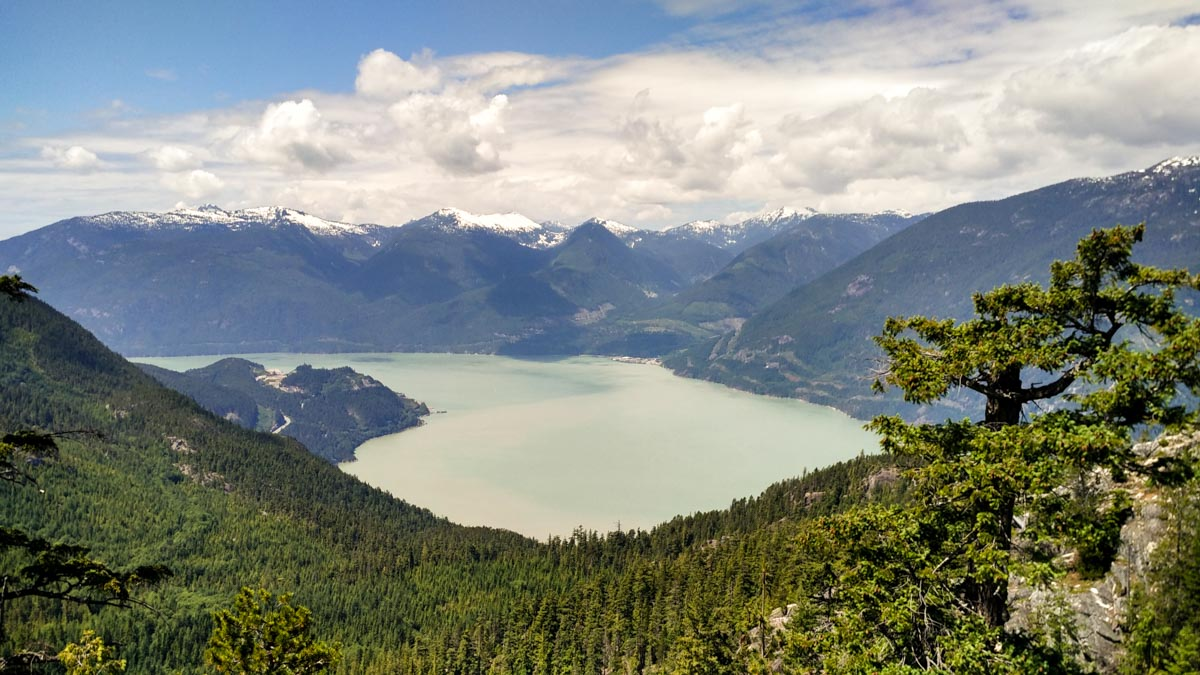
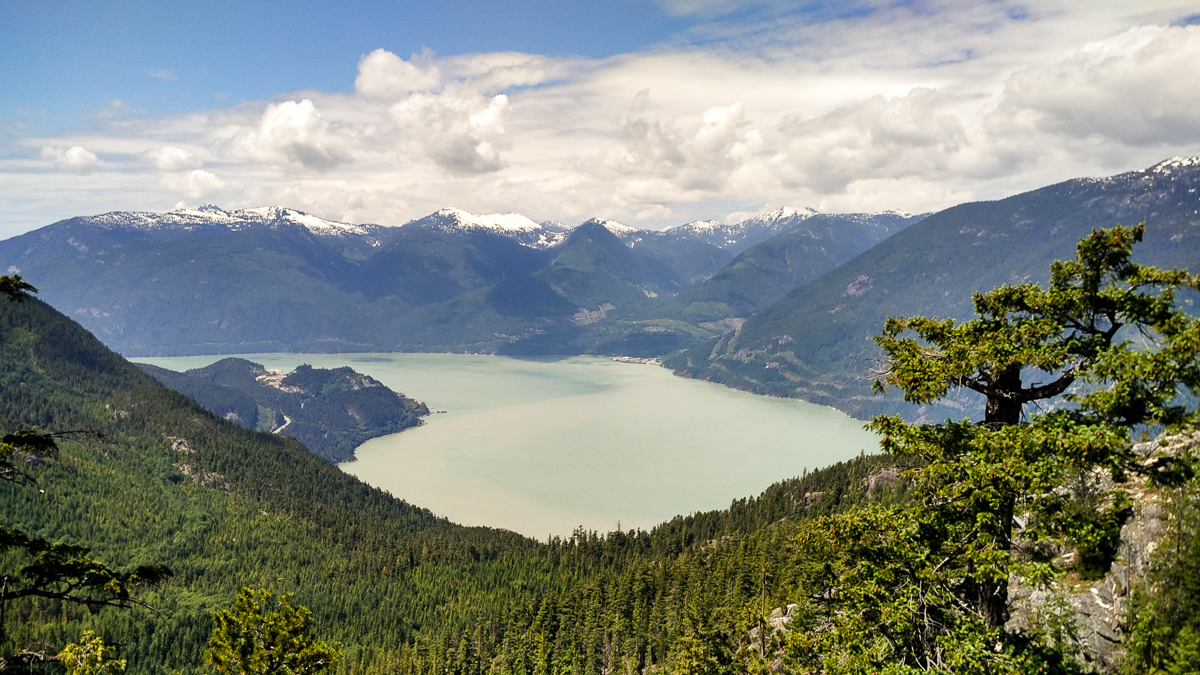
update pic quality

diff --git a/content/post/2017-05-11-r-rmarkdown.html b/content/post/2017-05-11-r-rmarkdown.html
@@ -64,8 +64,8 @@ y&lt;-x + rnorm(n=10, mean=0, sd=3)
 scatter&lt;-ggplot(as.data.frame(cbind(x,y)), aes(x,y)) + geom_point() + geom_smooth()
 ggplotly(scatter)</code></pre>
 <div class="figure"><span id="fig:scatter"></span>
-<div id="287061f4c4a" style="width:672px;height:480px;" class="plotly html-widget"></div>
-<script type="application/json" data-for="287061f4c4a">{"x":{"data":[{"x":[1,2,3,4,5,6,7,8,9,10],"y":[4.28370321192026,-0.16971988340032,8.73550778133992,6.40880852204698,2.15644912278058,6.70968974285788,6.43470267304625,12.0792601548719,5.78261295907434,4.89725496183026],"text":["x:  1<br />y:  4.2837032","x:  2<br />y: -0.1697199","x:  3<br />y:  8.7355078","x:  4<br />y:  6.4088085","x:  5<br />y:  2.1564491","x:  6<br />y:  6.7096897","x:  7<br />y:  6.4347027","x:  8<br />y: 12.0792602","x:  9<br />y:  5.7826130","x: 10<br />y:  4.8972550"],"type":"scatter","mode":"markers","marker":{"autocolorscale":false,"color":"rgba(0,0,0,1)","opacity":1,"size":5.66929133858268,"symbol":"circle","line":{"width":1.88976377952756,"color":"rgba(0,0,0,1)"}},"hoveron":"points","showlegend":false,"xaxis":"x","yaxis":"y","hoverinfo":"text","frame":null},{"x":[1,1.11392405063291,1.22784810126582,1.34177215189873,1.45569620253165,1.56962025316456,1.68354430379747,1.79746835443038,1.91139240506329,2.0253164556962,2.13924050632911,2.25316455696203,2.36708860759494,2.48101265822785,2.59493670886076,2.70886075949367,2.82278481012658,2.93670886075949,3.0506329113924,3.16455696202532,3.27848101265823,3.39240506329114,3.50632911392405,3.62025316455696,3.73417721518987,3.84810126582278,3.9620253164557,4.07594936708861,4.18987341772152,4.30379746835443,4.41772151898734,4.53164556962025,4.64556962025316,4.75949367088608,4.87341772151899,4.9873417721519,5.10126582278481,5.21518987341772,5.32911392405063,5.44303797468354,5.55696202531646,5.67088607594937,5.78481012658228,5.89873417721519,6.0126582278481,6.12658227848101,6.24050632911392,6.35443037974684,6.46835443037975,6.58227848101266,6.69620253164557,6.81012658227848,6.92405063291139,7.0379746835443,7.15189873417722,7.26582278481013,7.37974683544304,7.49367088607595,7.60759493670886,7.72151898734177,7.83544303797468,7.94936708860759,8.0632911392405,8.17721518987342,8.29113924050633,8.40506329113924,8.51898734177215,8.63291139240506,8.74683544303797,8.86075949367089,8.9746835443038,9.08860759493671,9.20253164556962,9.31645569620253,9.43037974683544,9.54430379746835,9.65822784810127,9.77215189873418,9.88607594936709,10],"y":[2.63901091399244,2.8599700322514,3.07550703942169,3.28499246182622,3.4877968257879,3.68329065762964,3.87084448367435,4.04982883024493,4.21961422366431,4.37958110187611,4.52961046039569,4.67006238322796,4.80127287998989,4.92357796029847,5.03731363377068,5.1428159100235,5.24042079867391,5.33046430933891,5.41777852931228,5.53240325111835,5.66997600878926,5.81847344508718,5.96587220277429,6.10014892461277,6.20928025336477,6.28124283179249,6.30401330265808,6.24774270370828,6.06441724182231,5.78407585299308,5.44209158568406,5.0738374883587,4.71468660948046,4.40001199751281,4.16518670091921,4.04558376816312,4.02387101155305,4.03366956164053,4.07282578488609,4.1399338904411,4.23358808745693,4.35238258508491,4.49491159247643,4.65976931878284,4.84645686887017,5.1338920270077,5.54644712323705,6.04556016396857,6.59266915561261,7.14921210457952,7.67662701727967,8.13635190012339,8.48982475952104,8.70617423419514,8.85891545297975,8.97805802142664,9.06587374143033,9.12463441488535,9.15661184368624,9.16407782972752,9.14930417490373,9.11456268110941,9.06149992715963,8.98800421258702,8.892692152388,8.77446969431699,8.63224278612843,8.46491737557674,8.27139941041635,8.05059483840167,7.80140960728715,7.52389780370214,7.22012970235127,6.89025406411916,6.53433546026395,6.15243846204375,5.74462764071667,5.31096756754084,4.85152281377438,4.3663579506754],"text":["x:  1.000000<br />y: 2.639011","x:  1.113924<br />y: 2.859970","x:  1.227848<br />y: 3.075507","x:  1.341772<br />y: 3.284992","x:  1.455696<br />y: 3.487797","x:  1.569620<br />y: 3.683291","x:  1.683544<br />y: 3.870844","x:  1.797468<br />y: 4.049829","x:  1.911392<br />y: 4.219614","x:  2.025316<br />y: 4.379581","x:  2.139241<br />y: 4.529610","x:  2.253165<br />y: 4.670062","x:  2.367089<br />y: 4.801273","x:  2.481013<br />y: 4.923578","x:  2.594937<br />y: 5.037314","x:  2.708861<br />y: 5.142816","x:  2.822785<br />y: 5.240421","x:  2.936709<br />y: 5.330464","x:  3.050633<br />y: 5.417779","x:  3.164557<br />y: 5.532403","x:  3.278481<br />y: 5.669976","x:  3.392405<br />y: 5.818473","x:  3.506329<br />y: 5.965872","x:  3.620253<br />y: 6.100149","x:  3.734177<br />y: 6.209280","x:  3.848101<br />y: 6.281243","x:  3.962025<br />y: 6.304013","x:  4.075949<br />y: 6.247743","x:  4.189873<br />y: 6.064417","x:  4.303797<br />y: 5.784076","x:  4.417722<br />y: 5.442092","x:  4.531646<br />y: 5.073837","x:  4.645570<br />y: 4.714687","x:  4.759494<br />y: 4.400012","x:  4.873418<br />y: 4.165187","x:  4.987342<br />y: 4.045584","x:  5.101266<br />y: 4.023871","x:  5.215190<br />y: 4.033670","x:  5.329114<br />y: 4.072826","x:  5.443038<br />y: 4.139934","x:  5.556962<br />y: 4.233588","x:  5.670886<br />y: 4.352383","x:  5.784810<br />y: 4.494912","x:  5.898734<br />y: 4.659769","x:  6.012658<br />y: 4.846457","x:  6.126582<br />y: 5.133892","x:  6.240506<br />y: 5.546447","x:  6.354430<br />y: 6.045560","x:  6.468354<br />y: 6.592669","x:  6.582278<br />y: 7.149212","x:  6.696203<br />y: 7.676627","x:  6.810127<br />y: 8.136352","x:  6.924051<br />y: 8.489825","x:  7.037975<br />y: 8.706174","x:  7.151899<br />y: 8.858915","x:  7.265823<br />y: 8.978058","x:  7.379747<br />y: 9.065874","x:  7.493671<br />y: 9.124634","x:  7.607595<br />y: 9.156612","x:  7.721519<br />y: 9.164078","x:  7.835443<br />y: 9.149304","x:  7.949367<br />y: 9.114563","x:  8.063291<br />y: 9.061500","x:  8.177215<br />y: 8.988004","x:  8.291139<br />y: 8.892692","x:  8.405063<br />y: 8.774470","x:  8.518987<br />y: 8.632243","x:  8.632911<br />y: 8.464917","x:  8.746835<br />y: 8.271399","x:  8.860759<br />y: 8.050595","x:  8.974684<br />y: 7.801410","x:  9.088608<br />y: 7.523898","x:  9.202532<br />y: 7.220130","x:  9.316456<br />y: 6.890254","x:  9.430380<br />y: 6.534335","x:  9.544304<br />y: 6.152438","x:  9.658228<br />y: 5.744628","x:  9.772152<br />y: 5.310968","x:  9.886076<br />y: 4.851523","x: 10.000000<br />y: 4.366358"],"type":"scatter","mode":"lines","name":"fitted values","line":{"width":3.77952755905512,"color":"rgba(51,102,255,1)","dash":"solid"},"hoveron":"points","showlegend":false,"xaxis":"x","yaxis":"y","hoverinfo":"text","frame":null},{"x":[1,1.11392405063291,1.22784810126582,1.34177215189873,1.45569620253165,1.56962025316456,1.68354430379747,1.79746835443038,1.91139240506329,2.0253164556962,2.13924050632911,2.25316455696203,2.36708860759494,2.48101265822785,2.59493670886076,2.70886075949367,2.82278481012658,2.93670886075949,3.0506329113924,3.16455696202532,3.27848101265823,3.39240506329114,3.50632911392405,3.62025316455696,3.73417721518987,3.84810126582278,3.9620253164557,4.07594936708861,4.18987341772152,4.30379746835443,4.41772151898734,4.53164556962025,4.64556962025316,4.75949367088608,4.87341772151899,4.9873417721519,5.10126582278481,5.21518987341772,5.32911392405063,5.44303797468354,5.55696202531646,5.67088607594937,5.78481012658228,5.89873417721519,6.0126582278481,6.12658227848101,6.24050632911392,6.35443037974684,6.46835443037975,6.58227848101266,6.69620253164557,6.81012658227848,6.92405063291139,7.0379746835443,7.15189873417722,7.26582278481013,7.37974683544304,7.49367088607595,7.60759493670886,7.72151898734177,7.83544303797468,7.94936708860759,8.0632911392405,8.17721518987342,8.29113924050633,8.40506329113924,8.51898734177215,8.63291139240506,8.74683544303797,8.86075949367089,8.9746835443038,9.08860759493671,9.20253164556962,9.31645569620253,9.43037974683544,9.54430379746835,9.65822784810127,9.77215189873418,9.88607594936709,10,10,10,9.88607594936709,9.77215189873418,9.65822784810127,9.54430379746835,9.43037974683544,9.31645569620253,9.20253164556962,9.08860759493671,8.9746835443038,8.86075949367089,8.74683544303797,8.63291139240506,8.51898734177215,8.40506329113924,8.29113924050633,8.17721518987342,8.0632911392405,7.94936708860759,7.83544303797468,7.72151898734177,7.60759493670886,7.49367088607595,7.37974683544304,7.26582278481013,7.15189873417722,7.0379746835443,6.92405063291139,6.81012658227848,6.69620253164557,6.58227848101266,6.46835443037975,6.35443037974684,6.24050632911392,6.12658227848101,6.0126582278481,5.89873417721519,5.78481012658228,5.67088607594937,5.55696202531646,5.44303797468354,5.32911392405063,5.21518987341772,5.10126582278481,4.9873417721519,4.87341772151899,4.75949367088608,4.64556962025316,4.53164556962025,4.41772151898734,4.30379746835443,4.18987341772152,4.07594936708861,3.9620253164557,3.84810126582278,3.73417721518987,3.62025316455696,3.50632911392405,3.39240506329114,3.27848101265823,3.16455696202532,3.0506329113924,2.93670886075949,2.82278481012658,2.70886075949367,2.59493670886076,2.48101265822785,2.36708860759494,2.25316455696203,2.13924050632911,2.0253164556962,1.91139240506329,1.79746835443038,1.68354430379747,1.56962025316456,1.45569620253165,1.34177215189873,1.22784810126582,1.11392405063291,1,1],"y":[-6.97423985988228,-5.93946717862998,-5.00976954597108,-4.18977972318284,-3.48296831555096,-2.89056354457849,-2.41046285622141,-2.03652834438103,-1.75863776743955,-1.56333149450985,-1.42847648355735,-1.3360038571357,-1.27409814711787,-1.23378612593839,-1.20820580906747,-1.19195418456857,-1.18059649338278,-1.17036499879278,-1.14938038232518,-1.06392102274112,-0.94383430292288,-0.836586018140259,-0.777511753664468,-0.780501828142488,-0.835956410987537,-0.915686018276802,-0.981770040349614,-1.01435459577981,-1.07000396774915,-1.19270936329766,-1.41959649431309,-1.76454552046918,-2.20200547603471,-2.66343758452352,-3.04887242759055,-3.24614090029929,-3.21644391836168,-3.06556883871335,-2.87247066806332,-2.70760239284793,-2.61394819583211,-2.5929138678645,-2.60432680787745,-2.5805456111319,-2.44526779959224,-2.08016710150206,-1.51700245879928,-0.871131921546609,-0.245713853215274,0.287524024582372,0.69984180098893,1.00193069055193,1.22772746003295,1.42039089118744,1.66198660291046,1.93282135707433,2.18522298867507,2.38125045844659,2.5015523804588,2.55026751801538,2.55297990104427,2.54740376947195,2.56067061902794,2.56698692053032,2.55792205779593,2.52895025147885,2.47487869989157,2.38954634846898,2.2653331700527,2.09250789444863,1.85849701090119,1.54570857976965,1.13401531991186,0.609335438443562,-0.039147825792786,-0.81821177147019,-1.73052969670101,-2.7753782460231,-3.94973944879978,-5.2493973211986,-5.2493973211986,13.9821132225494,13.6527850763485,13.3973133811048,13.2197849781344,13.1230886955577,13.1078187463207,13.1711726897948,13.3062440847907,13.5020870276346,13.7443222036731,14.0086817823547,14.27746565078,14.5402884026845,14.7896068723653,15.0199891371551,15.2274622469801,15.4090215046437,15.5623292352913,15.6817215927469,15.7456284487632,15.7778881414397,15.8116713069137,15.8680183713241,15.9465244941856,16.0232946857789,16.055844303049,15.9919575772028,15.7519220590091,15.2707731096949,14.6534122335704,14.0109001845767,13.4310521644405,12.9622522494837,12.6098967052734,12.3479511555175,12.1381815373326,11.9000842486976,11.5941499928303,11.2976790380343,11.081124370746,10.9874701737301,11.0181222378355,11.1329079619944,11.2641859414678,11.3373084366255,11.379245829429,11.4634615795491,11.6313786949956,11.9122204971866,12.3037796656812,12.7608610692838,13.1988384513938,13.5098400031964,13.5897966456658,13.4781716818618,13.2545169177171,12.980799677368,12.7092561592131,12.4735329083146,12.2837863205014,12.1287275249778,11.9849374409497,11.8312936174706,11.6614380907306,11.4775860046156,11.2828330766088,11.0809420465353,10.8766439070976,10.6761286235916,10.4876974043487,10.3224936982621,10.1978662147682,10.1361860048709,10.1521518235701,10.2571448598378,10.4585619671268,10.7597646468353,11.1607836248145,11.6594072431328,12.2522616878672,-6.97423985988228],"text":["x:  1.000000<br />y: 2.639011","x:  1.113924<br />y: 2.859970","x:  1.227848<br />y: 3.075507","x:  1.341772<br />y: 3.284992","x:  1.455696<br />y: 3.487797","x:  1.569620<br />y: 3.683291","x:  1.683544<br />y: 3.870844","x:  1.797468<br />y: 4.049829","x:  1.911392<br />y: 4.219614","x:  2.025316<br />y: 4.379581","x:  2.139241<br />y: 4.529610","x:  2.253165<br />y: 4.670062","x:  2.367089<br />y: 4.801273","x:  2.481013<br />y: 4.923578","x:  2.594937<br />y: 5.037314","x:  2.708861<br />y: 5.142816","x:  2.822785<br />y: 5.240421","x:  2.936709<br />y: 5.330464","x:  3.050633<br />y: 5.417779","x:  3.164557<br />y: 5.532403","x:  3.278481<br />y: 5.669976","x:  3.392405<br />y: 5.818473","x:  3.506329<br />y: 5.965872","x:  3.620253<br />y: 6.100149","x:  3.734177<br />y: 6.209280","x:  3.848101<br />y: 6.281243","x:  3.962025<br />y: 6.304013","x:  4.075949<br />y: 6.247743","x:  4.189873<br />y: 6.064417","x:  4.303797<br />y: 5.784076","x:  4.417722<br />y: 5.442092","x:  4.531646<br />y: 5.073837","x:  4.645570<br />y: 4.714687","x:  4.759494<br />y: 4.400012","x:  4.873418<br />y: 4.165187","x:  4.987342<br />y: 4.045584","x:  5.101266<br />y: 4.023871","x:  5.215190<br />y: 4.033670","x:  5.329114<br />y: 4.072826","x:  5.443038<br />y: 4.139934","x:  5.556962<br />y: 4.233588","x:  5.670886<br />y: 4.352383","x:  5.784810<br />y: 4.494912","x:  5.898734<br />y: 4.659769","x:  6.012658<br />y: 4.846457","x:  6.126582<br />y: 5.133892","x:  6.240506<br />y: 5.546447","x:  6.354430<br />y: 6.045560","x:  6.468354<br />y: 6.592669","x:  6.582278<br />y: 7.149212","x:  6.696203<br />y: 7.676627","x:  6.810127<br />y: 8.136352","x:  6.924051<br />y: 8.489825","x:  7.037975<br />y: 8.706174","x:  7.151899<br />y: 8.858915","x:  7.265823<br />y: 8.978058","x:  7.379747<br />y: 9.065874","x:  7.493671<br />y: 9.124634","x:  7.607595<br />y: 9.156612","x:  7.721519<br />y: 9.164078","x:  7.835443<br />y: 9.149304","x:  7.949367<br />y: 9.114563","x:  8.063291<br />y: 9.061500","x:  8.177215<br />y: 8.988004","x:  8.291139<br />y: 8.892692","x:  8.405063<br />y: 8.774470","x:  8.518987<br />y: 8.632243","x:  8.632911<br />y: 8.464917","x:  8.746835<br />y: 8.271399","x:  8.860759<br />y: 8.050595","x:  8.974684<br />y: 7.801410","x:  9.088608<br />y: 7.523898","x:  9.202532<br />y: 7.220130","x:  9.316456<br />y: 6.890254","x:  9.430380<br />y: 6.534335","x:  9.544304<br />y: 6.152438","x:  9.658228<br />y: 5.744628","x:  9.772152<br />y: 5.310968","x:  9.886076<br />y: 4.851523","x: 10.000000<br />y: 4.366358","x: 10.000000<br />y: 4.366358","x: 10.000000<br />y: 4.366358","x:  9.886076<br />y: 4.851523","x:  9.772152<br />y: 5.310968","x:  9.658228<br />y: 5.744628","x:  9.544304<br />y: 6.152438","x:  9.430380<br />y: 6.534335","x:  9.316456<br />y: 6.890254","x:  9.202532<br />y: 7.220130","x:  9.088608<br />y: 7.523898","x:  8.974684<br />y: 7.801410","x:  8.860759<br />y: 8.050595","x:  8.746835<br />y: 8.271399","x:  8.632911<br />y: 8.464917","x:  8.518987<br />y: 8.632243","x:  8.405063<br />y: 8.774470","x:  8.291139<br />y: 8.892692","x:  8.177215<br />y: 8.988004","x:  8.063291<br />y: 9.061500","x:  7.949367<br />y: 9.114563","x:  7.835443<br />y: 9.149304","x:  7.721519<br />y: 9.164078","x:  7.607595<br />y: 9.156612","x:  7.493671<br />y: 9.124634","x:  7.379747<br />y: 9.065874","x:  7.265823<br />y: 8.978058","x:  7.151899<br />y: 8.858915","x:  7.037975<br />y: 8.706174","x:  6.924051<br />y: 8.489825","x:  6.810127<br />y: 8.136352","x:  6.696203<br />y: 7.676627","x:  6.582278<br />y: 7.149212","x:  6.468354<br />y: 6.592669","x:  6.354430<br />y: 6.045560","x:  6.240506<br />y: 5.546447","x:  6.126582<br />y: 5.133892","x:  6.012658<br />y: 4.846457","x:  5.898734<br />y: 4.659769","x:  5.784810<br />y: 4.494912","x:  5.670886<br />y: 4.352383","x:  5.556962<br />y: 4.233588","x:  5.443038<br />y: 4.139934","x:  5.329114<br />y: 4.072826","x:  5.215190<br />y: 4.033670","x:  5.101266<br />y: 4.023871","x:  4.987342<br />y: 4.045584","x:  4.873418<br />y: 4.165187","x:  4.759494<br />y: 4.400012","x:  4.645570<br />y: 4.714687","x:  4.531646<br />y: 5.073837","x:  4.417722<br />y: 5.442092","x:  4.303797<br />y: 5.784076","x:  4.189873<br />y: 6.064417","x:  4.075949<br />y: 6.247743","x:  3.962025<br />y: 6.304013","x:  3.848101<br />y: 6.281243","x:  3.734177<br />y: 6.209280","x:  3.620253<br />y: 6.100149","x:  3.506329<br />y: 5.965872","x:  3.392405<br />y: 5.818473","x:  3.278481<br />y: 5.669976","x:  3.164557<br />y: 5.532403","x:  3.050633<br />y: 5.417779","x:  2.936709<br />y: 5.330464","x:  2.822785<br />y: 5.240421","x:  2.708861<br />y: 5.142816","x:  2.594937<br />y: 5.037314","x:  2.481013<br />y: 4.923578","x:  2.367089<br />y: 4.801273","x:  2.253165<br />y: 4.670062","x:  2.139241<br />y: 4.529610","x:  2.025316<br />y: 4.379581","x:  1.911392<br />y: 4.219614","x:  1.797468<br />y: 4.049829","x:  1.683544<br />y: 3.870844","x:  1.569620<br />y: 3.683291","x:  1.455696<br />y: 3.487797","x:  1.341772<br />y: 3.284992","x:  1.227848<br />y: 3.075507","x:  1.113924<br />y: 2.859970","x:  1.000000<br />y: 2.639011","x:  1.000000<br />y: 2.639011"],"type":"scatter","mode":"lines","line":{"width":3.77952755905512,"color":"transparent","dash":"solid"},"fill":"toself","fillcolor":"rgba(153,153,153,0.4)","hoveron":"points","hoverinfo":"x+y","showlegend":false,"xaxis":"x","yaxis":"y","frame":null}],"layout":{"margin":{"t":25.7412480974125,"r":7.30593607305936,"b":39.6955859969559,"l":37.2602739726027},"plot_bgcolor":"rgba(235,235,235,1)","paper_bgcolor":"rgba(255,255,255,1)","font":{"color":"rgba(0,0,0,1)","family":"","size":14.6118721461187},"xaxis":{"domain":[0,1],"type":"linear","autorange":false,"range":[0.55,10.45],"tickmode":"array","ticktext":["2.5","5.0","7.5","10.0"],"tickvals":[2.5,5,7.5,10],"categoryorder":"array","categoryarray":["2.5","5.0","7.5","10.0"],"nticks":null,"ticks":"outside","tickcolor":"rgba(51,51,51,1)","ticklen":3.65296803652968,"tickwidth":0.66417600664176,"showticklabels":true,"tickfont":{"color":"rgba(77,77,77,1)","family":"","size":11.689497716895},"tickangle":-0,"showline":false,"linecolor":null,"linewidth":0,"showgrid":true,"gridcolor":"rgba(255,255,255,1)","gridwidth":0.66417600664176,"zeroline":false,"anchor":"y","title":"x","titlefont":{"color":"rgba(0,0,0,1)","family":"","size":14.6118721461187},"hoverformat":".2f"},"yaxis":{"domain":[0,1],"type":"linear","autorange":false,"range":[-8.12574406802884,17.2073485111956],"tickmode":"array","ticktext":["0","10"],"tickvals":[0,10],"categoryorder":"array","categoryarray":["0","10"],"nticks":null,"ticks":"outside","tickcolor":"rgba(51,51,51,1)","ticklen":3.65296803652968,"tickwidth":0.66417600664176,"showticklabels":true,"tickfont":{"color":"rgba(77,77,77,1)","family":"","size":11.689497716895},"tickangle":-0,"showline":false,"linecolor":null,"linewidth":0,"showgrid":true,"gridcolor":"rgba(255,255,255,1)","gridwidth":0.66417600664176,"zeroline":false,"anchor":"x","title":"y","titlefont":{"color":"rgba(0,0,0,1)","family":"","size":14.6118721461187},"hoverformat":".2f"},"shapes":[{"type":"rect","fillcolor":null,"line":{"color":null,"width":0,"linetype":[]},"yref":"paper","xref":"paper","x0":0,"x1":1,"y0":0,"y1":1}],"showlegend":false,"legend":{"bgcolor":"rgba(255,255,255,1)","bordercolor":"transparent","borderwidth":1.88976377952756,"font":{"color":"rgba(0,0,0,1)","family":"","size":11.689497716895}},"hovermode":"closest","barmode":"relative"},"config":{"doubleClick":"reset","modeBarButtonsToAdd":[{"name":"Collaborate","icon":{"width":1000,"ascent":500,"descent":-50,"path":"M487 375c7-10 9-23 5-36l-79-259c-3-12-11-23-22-31-11-8-22-12-35-12l-263 0c-15 0-29 5-43 15-13 10-23 23-28 37-5 13-5 25-1 37 0 0 0 3 1 7 1 5 1 8 1 11 0 2 0 4-1 6 0 3-1 5-1 6 1 2 2 4 3 6 1 2 2 4 4 6 2 3 4 5 5 7 5 7 9 16 13 26 4 10 7 19 9 26 0 2 0 5 0 9-1 4-1 6 0 8 0 2 2 5 4 8 3 3 5 5 5 7 4 6 8 15 12 26 4 11 7 19 7 26 1 1 0 4 0 9-1 4-1 7 0 8 1 2 3 5 6 8 4 4 6 6 6 7 4 5 8 13 13 24 4 11 7 20 7 28 1 1 0 4 0 7-1 3-1 6-1 7 0 2 1 4 3 6 1 1 3 4 5 6 2 3 3 5 5 6 1 2 3 5 4 9 2 3 3 7 5 10 1 3 2 6 4 10 2 4 4 7 6 9 2 3 4 5 7 7 3 2 7 3 11 3 3 0 8 0 13-1l0-1c7 2 12 2 14 2l218 0c14 0 25-5 32-16 8-10 10-23 6-37l-79-259c-7-22-13-37-20-43-7-7-19-10-37-10l-248 0c-5 0-9-2-11-5-2-3-2-7 0-12 4-13 18-20 41-20l264 0c5 0 10 2 16 5 5 3 8 6 10 11l85 282c2 5 2 10 2 17 7-3 13-7 17-13z m-304 0c-1-3-1-5 0-7 1-1 3-2 6-2l174 0c2 0 4 1 7 2 2 2 4 4 5 7l6 18c0 3 0 5-1 7-1 1-3 2-6 2l-173 0c-3 0-5-1-8-2-2-2-4-4-4-7z m-24-73c-1-3-1-5 0-7 2-2 3-2 6-2l174 0c2 0 5 0 7 2 3 2 4 4 5 7l6 18c1 2 0 5-1 6-1 2-3 3-5 3l-174 0c-3 0-5-1-7-3-3-1-4-4-5-6z"},"click":"function(gd) { \n        // is this being viewed in RStudio?\n        if (location.search == '?viewer_pane=1') {\n          alert('To learn about plotly for collaboration, visit:\\n https://cpsievert.github.io/plotly_book/plot-ly-for-collaboration.html');\n        } else {\n          window.open('https://cpsievert.github.io/plotly_book/plot-ly-for-collaboration.html', '_blank');\n        }\n      }"}],"cloud":false},"source":"A","attrs":{"28703b36cd0":{"x":{},"y":{},"type":"scatter"},"2870858409a":{"x":{},"y":{}}},"cur_data":"28703b36cd0","visdat":{"28703b36cd0":["function (y) ","x"],"2870858409a":["function (y) ","x"]},"highlight":{"on":"plotly_click","persistent":false,"dynamic":false,"selectize":false,"opacityDim":0.2,"selected":{"opacity":1}},"base_url":"https://plot.ly"},"evals":["config.modeBarButtonsToAdd.0.click"],"jsHooks":{"render":[{"code":"function(el, x) { var ctConfig = crosstalk.var('plotlyCrosstalkOpts').set({\"on\":\"plotly_click\",\"persistent\":false,\"dynamic\":false,\"selectize\":false,\"opacityDim\":0.2,\"selected\":{\"opacity\":1}}); }","data":null}]}}</script>
+<div id="18ac49bd16bc" style="width:672px;height:480px;" class="plotly html-widget"></div>
+<script type="application/json" data-for="18ac49bd16bc">{"x":{"data":[{"x":[1,2,3,4,5,6,7,8,9,10],"y":[0.567280944457103,1.22947969581637,4.31268306583823,1.28259653440054,5.10592315172004,5.47990570108672,13.8100486332933,9.69728683086537,14.0128363379599,12.2928972474877],"text":["x:  1<br />y:  0.5672809","x:  2<br />y:  1.2294797","x:  3<br />y:  4.3126831","x:  4<br />y:  1.2825965","x:  5<br />y:  5.1059232","x:  6<br />y:  5.4799057","x:  7<br />y: 13.8100486","x:  8<br />y:  9.6972868","x:  9<br />y: 14.0128363","x: 10<br />y: 12.2928972"],"type":"scatter","mode":"markers","marker":{"autocolorscale":false,"color":"rgba(0,0,0,1)","opacity":1,"size":5.66929133858268,"symbol":"circle","line":{"width":1.88976377952756,"color":"rgba(0,0,0,1)"}},"hoveron":"points","showlegend":false,"xaxis":"x","yaxis":"y","hoverinfo":"text","frame":null},{"x":[1,1.11392405063291,1.22784810126582,1.34177215189873,1.45569620253165,1.56962025316456,1.68354430379747,1.79746835443038,1.91139240506329,2.0253164556962,2.13924050632911,2.25316455696203,2.36708860759494,2.48101265822785,2.59493670886076,2.70886075949367,2.82278481012658,2.93670886075949,3.0506329113924,3.16455696202532,3.27848101265823,3.39240506329114,3.50632911392405,3.62025316455696,3.73417721518987,3.84810126582278,3.9620253164557,4.07594936708861,4.18987341772152,4.30379746835443,4.41772151898734,4.53164556962025,4.64556962025316,4.75949367088608,4.87341772151899,4.9873417721519,5.10126582278481,5.21518987341772,5.32911392405063,5.44303797468354,5.55696202531646,5.67088607594937,5.78481012658228,5.89873417721519,6.0126582278481,6.12658227848101,6.24050632911392,6.35443037974684,6.46835443037975,6.58227848101266,6.69620253164557,6.81012658227848,6.92405063291139,7.0379746835443,7.15189873417722,7.26582278481013,7.37974683544304,7.49367088607595,7.60759493670886,7.72151898734177,7.83544303797468,7.94936708860759,8.0632911392405,8.17721518987342,8.29113924050633,8.40506329113924,8.51898734177215,8.63291139240506,8.74683544303797,8.86075949367089,8.9746835443038,9.08860759493671,9.20253164556962,9.31645569620253,9.43037974683544,9.54430379746835,9.65822784810127,9.77215189873418,9.88607594936709,10],"y":[0.602009902382564,0.732428910873641,0.859590281759613,0.983662257388181,1.10481308010704,1.2232109922639,1.33902423620645,1.4524210542824,1.56356968883944,1.67250257154879,1.77601248412358,1.87377912193331,1.96727762671014,2.05798314018621,2.1473708040937,2.23691576016474,2.3280931501315,2.42237811572613,2.51889115436174,2.60220978694443,2.67261063127881,2.73418396011873,2.79102004621802,2.84720916233052,2.90684158121006,2.97400757561049,3.05279741828564,3.12797606311025,3.14870840885177,3.13096305277016,3.09585519834002,3.06450004903589,3.05801280833237,3.09750867970402,3.20410286662541,3.39891057257113,3.71430527349507,4.15598154946036,4.69071593943382,5.28499667068916,5.90531197050011,6.5181500661404,7.08999918488375,7.58734755400388,7.97752380250471,8.31507600323942,8.64788059832652,8.9742144809142,9.29235454415066,9.60057768118408,9.89716078516266,10.1803807492346,10.4485144665481,10.7004649244332,10.9427283031772,11.1763360688275,11.3998353263972,11.6117731808998,11.8106967373485,11.9951531007568,12.163689376138,12.3148526685054,12.4474836574933,12.5624420605625,12.6606011577436,12.7427191340678,12.8095541745661,12.8618644642696,12.9004081882093,12.9259435314163,12.9392286789218,12.9402355338004,12.9276169391486,12.9013961121151,12.8616548894788,12.8084751080183,12.7419386045124,12.6621272157398,12.5691227784792,12.4630071295093],"text":["x:  1.000000<br />y:  0.6020099","x:  1.113924<br />y:  0.7324289","x:  1.227848<br />y:  0.8595903","x:  1.341772<br />y:  0.9836623","x:  1.455696<br />y:  1.1048131","x:  1.569620<br />y:  1.2232110","x:  1.683544<br />y:  1.3390242","x:  1.797468<br />y:  1.4524211","x:  1.911392<br />y:  1.5635697","x:  2.025316<br />y:  1.6725026","x:  2.139241<br />y:  1.7760125","x:  2.253165<br />y:  1.8737791","x:  2.367089<br />y:  1.9672776","x:  2.481013<br />y:  2.0579831","x:  2.594937<br />y:  2.1473708","x:  2.708861<br />y:  2.2369158","x:  2.822785<br />y:  2.3280932","x:  2.936709<br />y:  2.4223781","x:  3.050633<br />y:  2.5188912","x:  3.164557<br />y:  2.6022098","x:  3.278481<br />y:  2.6726106","x:  3.392405<br />y:  2.7341840","x:  3.506329<br />y:  2.7910200","x:  3.620253<br />y:  2.8472092","x:  3.734177<br />y:  2.9068416","x:  3.848101<br />y:  2.9740076","x:  3.962025<br />y:  3.0527974","x:  4.075949<br />y:  3.1279761","x:  4.189873<br />y:  3.1487084","x:  4.303797<br />y:  3.1309631","x:  4.417722<br />y:  3.0958552","x:  4.531646<br />y:  3.0645000","x:  4.645570<br />y:  3.0580128","x:  4.759494<br />y:  3.0975087","x:  4.873418<br />y:  3.2041029","x:  4.987342<br />y:  3.3989106","x:  5.101266<br />y:  3.7143053","x:  5.215190<br />y:  4.1559815","x:  5.329114<br />y:  4.6907159","x:  5.443038<br />y:  5.2849967","x:  5.556962<br />y:  5.9053120","x:  5.670886<br />y:  6.5181501","x:  5.784810<br />y:  7.0899992","x:  5.898734<br />y:  7.5873476","x:  6.012658<br />y:  7.9775238","x:  6.126582<br />y:  8.3150760","x:  6.240506<br />y:  8.6478806","x:  6.354430<br />y:  8.9742145","x:  6.468354<br />y:  9.2923545","x:  6.582278<br />y:  9.6005777","x:  6.696203<br />y:  9.8971608","x:  6.810127<br />y: 10.1803807","x:  6.924051<br />y: 10.4485145","x:  7.037975<br />y: 10.7004649","x:  7.151899<br />y: 10.9427283","x:  7.265823<br />y: 11.1763361","x:  7.379747<br />y: 11.3998353","x:  7.493671<br />y: 11.6117732","x:  7.607595<br />y: 11.8106967","x:  7.721519<br />y: 11.9951531","x:  7.835443<br />y: 12.1636894","x:  7.949367<br />y: 12.3148527","x:  8.063291<br />y: 12.4474837","x:  8.177215<br />y: 12.5624421","x:  8.291139<br />y: 12.6606012","x:  8.405063<br />y: 12.7427191","x:  8.518987<br />y: 12.8095542","x:  8.632911<br />y: 12.8618645","x:  8.746835<br />y: 12.9004082","x:  8.860759<br />y: 12.9259435","x:  8.974684<br />y: 12.9392287","x:  9.088608<br />y: 12.9402355","x:  9.202532<br />y: 12.9276169","x:  9.316456<br />y: 12.9013961","x:  9.430380<br />y: 12.8616549","x:  9.544304<br />y: 12.8084751","x:  9.658228<br />y: 12.7419386","x:  9.772152<br />y: 12.6621272","x:  9.886076<br />y: 12.5691228","x: 10.000000<br />y: 12.4630071"],"type":"scatter","mode":"lines","name":"fitted values","line":{"width":3.77952755905512,"color":"rgba(51,102,255,1)","dash":"solid"},"hoveron":"points","showlegend":false,"xaxis":"x","yaxis":"y","hoverinfo":"text","frame":null},{"x":[1,1.11392405063291,1.22784810126582,1.34177215189873,1.45569620253165,1.56962025316456,1.68354430379747,1.79746835443038,1.91139240506329,2.0253164556962,2.13924050632911,2.25316455696203,2.36708860759494,2.48101265822785,2.59493670886076,2.70886075949367,2.82278481012658,2.93670886075949,3.0506329113924,3.16455696202532,3.27848101265823,3.39240506329114,3.50632911392405,3.62025316455696,3.73417721518987,3.84810126582278,3.9620253164557,4.07594936708861,4.18987341772152,4.30379746835443,4.41772151898734,4.53164556962025,4.64556962025316,4.75949367088608,4.87341772151899,4.9873417721519,5.10126582278481,5.21518987341772,5.32911392405063,5.44303797468354,5.55696202531646,5.67088607594937,5.78481012658228,5.89873417721519,6.0126582278481,6.12658227848101,6.24050632911392,6.35443037974684,6.46835443037975,6.58227848101266,6.69620253164557,6.81012658227848,6.92405063291139,7.0379746835443,7.15189873417722,7.26582278481013,7.37974683544304,7.49367088607595,7.60759493670886,7.72151898734177,7.83544303797468,7.94936708860759,8.0632911392405,8.17721518987342,8.29113924050633,8.40506329113924,8.51898734177215,8.63291139240506,8.74683544303797,8.86075949367089,8.9746835443038,9.08860759493671,9.20253164556962,9.31645569620253,9.43037974683544,9.54430379746835,9.65822784810127,9.77215189873418,9.88607594936709,10,10,10,9.88607594936709,9.77215189873418,9.65822784810127,9.54430379746835,9.43037974683544,9.31645569620253,9.20253164556962,9.08860759493671,8.9746835443038,8.86075949367089,8.74683544303797,8.63291139240506,8.51898734177215,8.40506329113924,8.29113924050633,8.17721518987342,8.0632911392405,7.94936708860759,7.83544303797468,7.72151898734177,7.60759493670886,7.49367088607595,7.37974683544304,7.26582278481013,7.15189873417722,7.0379746835443,6.92405063291139,6.81012658227848,6.69620253164557,6.58227848101266,6.46835443037975,6.35443037974684,6.24050632911392,6.12658227848101,6.0126582278481,5.89873417721519,5.78481012658228,5.67088607594937,5.55696202531646,5.44303797468354,5.32911392405063,5.21518987341772,5.10126582278481,4.9873417721519,4.87341772151899,4.75949367088608,4.64556962025316,4.53164556962025,4.41772151898734,4.30379746835443,4.18987341772152,4.07594936708861,3.9620253164557,3.84810126582278,3.73417721518987,3.62025316455696,3.50632911392405,3.39240506329114,3.27848101265823,3.16455696202532,3.0506329113924,2.93670886075949,2.82278481012658,2.70886075949367,2.59493670886076,2.48101265822785,2.36708860759494,2.25316455696203,2.13924050632911,2.0253164556962,1.91139240506329,1.79746835443038,1.68354430379747,1.56962025316456,1.45569620253165,1.34177215189873,1.22784810126582,1.11392405063291,1,1],"y":[-6.69142305555238,-5.9435755827919,-5.27459097586247,-4.68733822824951,-4.18380462266125,-3.76427617798067,-3.42651190233009,-3.16520924116539,-2.97204278277643,-2.8362984174363,-2.74430106073509,-2.68293561436111,-2.64201763907133,-2.61351906202505,-2.59101357963743,-2.56918178952148,-2.5434388886068,-2.50970613393155,-2.46351639671345,-2.40232509848037,-2.34519065567635,-2.31491245563575,-2.32508687253208,-2.37304006996513,-2.43827657839121,-2.48619722978765,-2.47481999316026,-2.38167109305859,-2.26407276264217,-2.16222199293925,-2.11000733108917,-2.12368126327422,-2.18958045673453,-2.26142735453939,-2.26909843083303,-2.13321443572256,-1.77881591701604,-1.23010693853491,-0.578579041430687,0.0898709027314846,0.710186202542436,1.2488550852759,1.70391069688848,2.09422636349278,2.44539879421102,2.84187470578097,3.28894456408311,3.7266212158473,4.10417323184054,4.39471515175489,4.60397573945325,4.76759957774066,4.93886731037923,5.17284751298725,5.4825234977791,5.8312179092262,6.17958609410155,6.49566626214966,6.76160032159403,6.97735181380165,7.15915449071321,7.33244511743026,7.51539940783561,7.69091002182419,7.85450360805742,8.00433475033669,8.13805197235484,8.25256919848809,8.34369345191486,8.40562998655766,8.4304276899367,8.40467068272072,8.31017084658667,8.13615488538013,7.87444912790097,7.51994458413855,7.07064590936757,6.52713475032062,5.8917336447497,5.16767404552117,5.16767404552117,19.7583402134974,19.2465119122086,18.797119681159,18.4132312996573,18.0970056318981,17.8488606510567,17.6666373388501,17.5450630317105,17.4758003848801,17.4480296679069,17.446257076275,17.4571229245037,17.471159730051,17.4810563767774,17.4811035177989,17.4666987074299,17.4339740993008,17.379567907151,17.2972602195806,17.1682242615628,17.012954387712,16.859793153103,16.7278800996499,16.6200845586928,16.5214542284288,16.4029331085754,16.2280823358791,15.9581616227169,15.5931619207285,15.1903458308721,14.8064402106133,14.4805358564608,14.2218077459811,14.0068166325699,13.7882773006979,13.5096488107984,13.080468744515,12.476087672879,11.7874450470049,11.1004377384578,10.4801224386468,9.96001092029832,9.54207003745564,9.20742646400618,8.93103558086481,8.67730416408385,8.45644471394743,8.30560607339927,8.25268136134601,8.3017177277692,8.42414809847958,8.5614895803457,8.63762321927909,8.58041482973155,8.43421238100863,8.25195974081134,8.06745839462616,7.90712696496811,7.78328037587321,7.69041191823397,7.60674467236922,7.50129870543693,7.35446236538382,7.19962518886981,7.04301330985096,6.88575518782483,6.72948534239748,6.5765728924916,6.43049385822773,6.29632602898225,6.18130356053389,6.09918216045531,6.07005134973018,6.10456037474299,6.21069816250847,6.39343078287534,6.65466274302587,6.9937715393817,7.40843340453918,7.89544286031751,-6.69142305555238],"text":["x:  1.000000<br />y:  0.6020099","x:  1.113924<br />y:  0.7324289","x:  1.227848<br />y:  0.8595903","x:  1.341772<br />y:  0.9836623","x:  1.455696<br />y:  1.1048131","x:  1.569620<br />y:  1.2232110","x:  1.683544<br />y:  1.3390242","x:  1.797468<br />y:  1.4524211","x:  1.911392<br />y:  1.5635697","x:  2.025316<br />y:  1.6725026","x:  2.139241<br />y:  1.7760125","x:  2.253165<br />y:  1.8737791","x:  2.367089<br />y:  1.9672776","x:  2.481013<br />y:  2.0579831","x:  2.594937<br />y:  2.1473708","x:  2.708861<br />y:  2.2369158","x:  2.822785<br />y:  2.3280932","x:  2.936709<br />y:  2.4223781","x:  3.050633<br />y:  2.5188912","x:  3.164557<br />y:  2.6022098","x:  3.278481<br />y:  2.6726106","x:  3.392405<br />y:  2.7341840","x:  3.506329<br />y:  2.7910200","x:  3.620253<br />y:  2.8472092","x:  3.734177<br />y:  2.9068416","x:  3.848101<br />y:  2.9740076","x:  3.962025<br />y:  3.0527974","x:  4.075949<br />y:  3.1279761","x:  4.189873<br />y:  3.1487084","x:  4.303797<br />y:  3.1309631","x:  4.417722<br />y:  3.0958552","x:  4.531646<br />y:  3.0645000","x:  4.645570<br />y:  3.0580128","x:  4.759494<br />y:  3.0975087","x:  4.873418<br />y:  3.2041029","x:  4.987342<br />y:  3.3989106","x:  5.101266<br />y:  3.7143053","x:  5.215190<br />y:  4.1559815","x:  5.329114<br />y:  4.6907159","x:  5.443038<br />y:  5.2849967","x:  5.556962<br />y:  5.9053120","x:  5.670886<br />y:  6.5181501","x:  5.784810<br />y:  7.0899992","x:  5.898734<br />y:  7.5873476","x:  6.012658<br />y:  7.9775238","x:  6.126582<br />y:  8.3150760","x:  6.240506<br />y:  8.6478806","x:  6.354430<br />y:  8.9742145","x:  6.468354<br />y:  9.2923545","x:  6.582278<br />y:  9.6005777","x:  6.696203<br />y:  9.8971608","x:  6.810127<br />y: 10.1803807","x:  6.924051<br />y: 10.4485145","x:  7.037975<br />y: 10.7004649","x:  7.151899<br />y: 10.9427283","x:  7.265823<br />y: 11.1763361","x:  7.379747<br />y: 11.3998353","x:  7.493671<br />y: 11.6117732","x:  7.607595<br />y: 11.8106967","x:  7.721519<br />y: 11.9951531","x:  7.835443<br />y: 12.1636894","x:  7.949367<br />y: 12.3148527","x:  8.063291<br />y: 12.4474837","x:  8.177215<br />y: 12.5624421","x:  8.291139<br />y: 12.6606012","x:  8.405063<br />y: 12.7427191","x:  8.518987<br />y: 12.8095542","x:  8.632911<br />y: 12.8618645","x:  8.746835<br />y: 12.9004082","x:  8.860759<br />y: 12.9259435","x:  8.974684<br />y: 12.9392287","x:  9.088608<br />y: 12.9402355","x:  9.202532<br />y: 12.9276169","x:  9.316456<br />y: 12.9013961","x:  9.430380<br />y: 12.8616549","x:  9.544304<br />y: 12.8084751","x:  9.658228<br />y: 12.7419386","x:  9.772152<br />y: 12.6621272","x:  9.886076<br />y: 12.5691228","x: 10.000000<br />y: 12.4630071","x: 10.000000<br />y: 12.4630071","x: 10.000000<br />y: 12.4630071","x:  9.886076<br />y: 12.5691228","x:  9.772152<br />y: 12.6621272","x:  9.658228<br />y: 12.7419386","x:  9.544304<br />y: 12.8084751","x:  9.430380<br />y: 12.8616549","x:  9.316456<br />y: 12.9013961","x:  9.202532<br />y: 12.9276169","x:  9.088608<br />y: 12.9402355","x:  8.974684<br />y: 12.9392287","x:  8.860759<br />y: 12.9259435","x:  8.746835<br />y: 12.9004082","x:  8.632911<br />y: 12.8618645","x:  8.518987<br />y: 12.8095542","x:  8.405063<br />y: 12.7427191","x:  8.291139<br />y: 12.6606012","x:  8.177215<br />y: 12.5624421","x:  8.063291<br />y: 12.4474837","x:  7.949367<br />y: 12.3148527","x:  7.835443<br />y: 12.1636894","x:  7.721519<br />y: 11.9951531","x:  7.607595<br />y: 11.8106967","x:  7.493671<br />y: 11.6117732","x:  7.379747<br />y: 11.3998353","x:  7.265823<br />y: 11.1763361","x:  7.151899<br />y: 10.9427283","x:  7.037975<br />y: 10.7004649","x:  6.924051<br />y: 10.4485145","x:  6.810127<br />y: 10.1803807","x:  6.696203<br />y:  9.8971608","x:  6.582278<br />y:  9.6005777","x:  6.468354<br />y:  9.2923545","x:  6.354430<br />y:  8.9742145","x:  6.240506<br />y:  8.6478806","x:  6.126582<br />y:  8.3150760","x:  6.012658<br />y:  7.9775238","x:  5.898734<br />y:  7.5873476","x:  5.784810<br />y:  7.0899992","x:  5.670886<br />y:  6.5181501","x:  5.556962<br />y:  5.9053120","x:  5.443038<br />y:  5.2849967","x:  5.329114<br />y:  4.6907159","x:  5.215190<br />y:  4.1559815","x:  5.101266<br />y:  3.7143053","x:  4.987342<br />y:  3.3989106","x:  4.873418<br />y:  3.2041029","x:  4.759494<br />y:  3.0975087","x:  4.645570<br />y:  3.0580128","x:  4.531646<br />y:  3.0645000","x:  4.417722<br />y:  3.0958552","x:  4.303797<br />y:  3.1309631","x:  4.189873<br />y:  3.1487084","x:  4.075949<br />y:  3.1279761","x:  3.962025<br />y:  3.0527974","x:  3.848101<br />y:  2.9740076","x:  3.734177<br />y:  2.9068416","x:  3.620253<br />y:  2.8472092","x:  3.506329<br />y:  2.7910200","x:  3.392405<br />y:  2.7341840","x:  3.278481<br />y:  2.6726106","x:  3.164557<br />y:  2.6022098","x:  3.050633<br />y:  2.5188912","x:  2.936709<br />y:  2.4223781","x:  2.822785<br />y:  2.3280932","x:  2.708861<br />y:  2.2369158","x:  2.594937<br />y:  2.1473708","x:  2.481013<br />y:  2.0579831","x:  2.367089<br />y:  1.9672776","x:  2.253165<br />y:  1.8737791","x:  2.139241<br />y:  1.7760125","x:  2.025316<br />y:  1.6725026","x:  1.911392<br />y:  1.5635697","x:  1.797468<br />y:  1.4524211","x:  1.683544<br />y:  1.3390242","x:  1.569620<br />y:  1.2232110","x:  1.455696<br />y:  1.1048131","x:  1.341772<br />y:  0.9836623","x:  1.227848<br />y:  0.8595903","x:  1.113924<br />y:  0.7324289","x:  1.000000<br />y:  0.6020099","x:  1.000000<br />y:  0.6020099"],"type":"scatter","mode":"lines","line":{"width":3.77952755905512,"color":"transparent","dash":"solid"},"fill":"toself","fillcolor":"rgba(153,153,153,0.4)","hoveron":"points","hoverinfo":"x+y","showlegend":false,"xaxis":"x","yaxis":"y","frame":null}],"layout":{"margin":{"t":25.7412480974125,"r":7.30593607305936,"b":39.6955859969559,"l":37.2602739726027},"plot_bgcolor":"rgba(235,235,235,1)","paper_bgcolor":"rgba(255,255,255,1)","font":{"color":"rgba(0,0,0,1)","family":"","size":14.6118721461187},"xaxis":{"domain":[0,1],"type":"linear","autorange":false,"range":[0.55,10.45],"tickmode":"array","ticktext":["2.5","5.0","7.5","10.0"],"tickvals":[2.5,5,7.5,10],"categoryorder":"array","categoryarray":["2.5","5.0","7.5","10.0"],"nticks":null,"ticks":"outside","tickcolor":"rgba(51,51,51,1)","ticklen":3.65296803652968,"tickwidth":0.66417600664176,"showticklabels":true,"tickfont":{"color":"rgba(77,77,77,1)","family":"","size":11.689497716895},"tickangle":-0,"showline":false,"linecolor":null,"linewidth":0,"showgrid":true,"gridcolor":"rgba(255,255,255,1)","gridwidth":0.66417600664176,"zeroline":false,"anchor":"y","title":"x","titlefont":{"color":"rgba(0,0,0,1)","family":"","size":14.6118721461187},"hoverformat":".2f"},"yaxis":{"domain":[0,1],"type":"linear","autorange":false,"range":[-8.01391121900486,21.0808283769499],"tickmode":"array","ticktext":["0","10","20"],"tickvals":[0,10,20],"categoryorder":"array","categoryarray":["0","10","20"],"nticks":null,"ticks":"outside","tickcolor":"rgba(51,51,51,1)","ticklen":3.65296803652968,"tickwidth":0.66417600664176,"showticklabels":true,"tickfont":{"color":"rgba(77,77,77,1)","family":"","size":11.689497716895},"tickangle":-0,"showline":false,"linecolor":null,"linewidth":0,"showgrid":true,"gridcolor":"rgba(255,255,255,1)","gridwidth":0.66417600664176,"zeroline":false,"anchor":"x","title":"y","titlefont":{"color":"rgba(0,0,0,1)","family":"","size":14.6118721461187},"hoverformat":".2f"},"shapes":[{"type":"rect","fillcolor":null,"line":{"color":null,"width":0,"linetype":[]},"yref":"paper","xref":"paper","x0":0,"x1":1,"y0":0,"y1":1}],"showlegend":false,"legend":{"bgcolor":"rgba(255,255,255,1)","bordercolor":"transparent","borderwidth":1.88976377952756,"font":{"color":"rgba(0,0,0,1)","family":"","size":11.689497716895}},"hovermode":"closest","barmode":"relative"},"config":{"doubleClick":"reset","modeBarButtonsToAdd":[{"name":"Collaborate","icon":{"width":1000,"ascent":500,"descent":-50,"path":"M487 375c7-10 9-23 5-36l-79-259c-3-12-11-23-22-31-11-8-22-12-35-12l-263 0c-15 0-29 5-43 15-13 10-23 23-28 37-5 13-5 25-1 37 0 0 0 3 1 7 1 5 1 8 1 11 0 2 0 4-1 6 0 3-1 5-1 6 1 2 2 4 3 6 1 2 2 4 4 6 2 3 4 5 5 7 5 7 9 16 13 26 4 10 7 19 9 26 0 2 0 5 0 9-1 4-1 6 0 8 0 2 2 5 4 8 3 3 5 5 5 7 4 6 8 15 12 26 4 11 7 19 7 26 1 1 0 4 0 9-1 4-1 7 0 8 1 2 3 5 6 8 4 4 6 6 6 7 4 5 8 13 13 24 4 11 7 20 7 28 1 1 0 4 0 7-1 3-1 6-1 7 0 2 1 4 3 6 1 1 3 4 5 6 2 3 3 5 5 6 1 2 3 5 4 9 2 3 3 7 5 10 1 3 2 6 4 10 2 4 4 7 6 9 2 3 4 5 7 7 3 2 7 3 11 3 3 0 8 0 13-1l0-1c7 2 12 2 14 2l218 0c14 0 25-5 32-16 8-10 10-23 6-37l-79-259c-7-22-13-37-20-43-7-7-19-10-37-10l-248 0c-5 0-9-2-11-5-2-3-2-7 0-12 4-13 18-20 41-20l264 0c5 0 10 2 16 5 5 3 8 6 10 11l85 282c2 5 2 10 2 17 7-3 13-7 17-13z m-304 0c-1-3-1-5 0-7 1-1 3-2 6-2l174 0c2 0 4 1 7 2 2 2 4 4 5 7l6 18c0 3 0 5-1 7-1 1-3 2-6 2l-173 0c-3 0-5-1-8-2-2-2-4-4-4-7z m-24-73c-1-3-1-5 0-7 2-2 3-2 6-2l174 0c2 0 5 0 7 2 3 2 4 4 5 7l6 18c1 2 0 5-1 6-1 2-3 3-5 3l-174 0c-3 0-5-1-7-3-3-1-4-4-5-6z"},"click":"function(gd) { \n        // is this being viewed in RStudio?\n        if (location.search == '?viewer_pane=1') {\n          alert('To learn about plotly for collaboration, visit:\\n https://cpsievert.github.io/plotly_book/plot-ly-for-collaboration.html');\n        } else {\n          window.open('https://cpsievert.github.io/plotly_book/plot-ly-for-collaboration.html', '_blank');\n        }\n      }"}],"cloud":false},"source":"A","attrs":{"18ac1b73de5":{"x":{},"y":{},"type":"scatter"},"18ac2cc05895":{"x":{},"y":{}}},"cur_data":"18ac1b73de5","visdat":{"18ac1b73de5":["function (y) ","x"],"18ac2cc05895":["function (y) ","x"]},"highlight":{"on":"plotly_click","persistent":false,"dynamic":false,"selectize":false,"opacityDim":0.2,"selected":{"opacity":1}},"base_url":"https://plot.ly"},"evals":["config.modeBarButtonsToAdd.0.click"],"jsHooks":{"render":[{"code":"function(el, x) { var ctConfig = crosstalk.var('plotlyCrosstalkOpts').set({\"on\":\"plotly_click\",\"persistent\":false,\"dynamic\":false,\"selectize\":false,\"opacityDim\":0.2,\"selected\":{\"opacity\":1}}); }","data":null}]}}</script>
 <p class="caption">
 Figure 2: Plotly
 </p>
